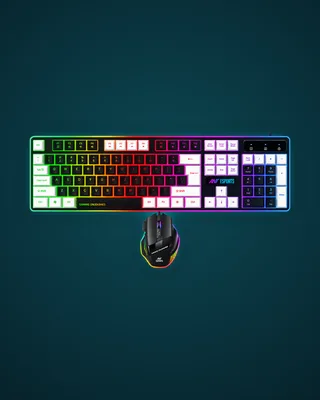
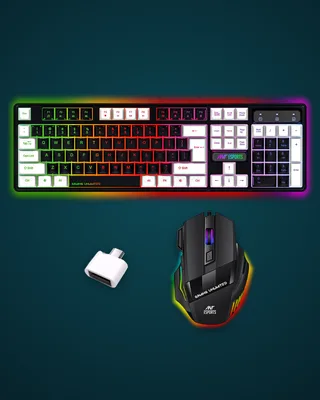
KM1410: new first photo from Ant Esports' packshot, four brand infographics
The old first image, from antesports.com, is a generated render with wrong keycaps and "GAMING UNLEASHED"
on the spacebar. The new one places Ant Esports' own Flipkart packshot (keyboard, mouse, OTG adapter) on
the teal stage with its RGB glow kept. The gallery adds Ant Esports' infographics for the USB connection,
mouse buttons, compatibility and rated life, and the specs gain the rated-life row.

Claude-Session: https://claude.ai/code/session_01Ro9QpjYW3rXQemVYygsFQx

diff --git a/apps/storefront/src/lib/catalog/gadget-additions.ts b/apps/storefront/src/lib/catalog/gadget-additions.ts
@@ -351,6 +351,7 @@ export const COMPUTER: readonly GadgetEntry[] = [
       { label: 'Media keys', value: 'FN + F1–F12: music, volume, mail, browser, calculator, lock' },
       { label: 'Mouse', value: '1200, 1800, 2400, 3600 DPI, 7 buttons, multicolour LED' },
       { label: 'Cables', value: 'USB, 1.5 m on both' },
+      { label: 'Rated life', value: 'Keys 10 million presses, mouse buttons 5 million clicks' },
       { label: 'Works with', value: 'Windows, macOS, Linux' },
       { label: 'Warranty', value: ANT_YEAR },
     ],
@@ -358,7 +359,17 @@ export const COMPUTER: readonly GadgetEntry[] = [
     optionKind: 'colour',
     options: [{ slug: 'carbon-black', name: 'Carbon Black', hex: '#1c1c1e' }],
     warrantyMonths: 12,
-    photos: { id: 'ant-esports-km1410', gallery: ['Keyboard and mouse', 'Sealed box'] },
+    photos: {
+      id: 'ant-esports-km1410',
+      gallery: [
+        'Keyboard, mouse and Type-C adapter',
+        'Sealed box',
+        'Wired USB, with a Type-C adapter',
+        'Mouse buttons',
+        'Works with Windows, macOS and Linux',
+        'Rated for 10 million key presses and 5 million clicks',
+      ],
+    },
   },
   {
     id: 'honeywell-usb-hub-4',

diff --git a/catalog-sources/batch-2026-11-17/tools/glow_teal.py b/catalog-sources/batch-2026-11-17/tools/glow_teal.py
@@ -1,0 +1,105 @@
+"""Brand packshot on white, with RGB glow, -> pieces on the plain teal backdrop, glow kept.
+
+The glow around a backlit keyboard or mouse is light on white paper, so a matte would either drop it or keep it as an opaque
+pale halo. Instead each piece is split in two:
+  - the body: dark outline found by threshold, holes filled, so white keycaps inside it stay opaque;
+  - everything else: colour-to-alpha against white (GIMP's method), which turns the glow into coloured light that shows on
+    the dark teal the way it does in the room.
+Pieces with no dark outline (the white OTG adapter) use the isnet matte instead.
+
+usage: python3 -I glow_teal.py SCRATCH src.jpg out.png LAYOUT.json
+LAYOUT.json: {"size": 2048, "pieces": [{"box": [x0, y0, x1, y1], "mode": "glow" | "isnet", "at": [cx, cy], "width": px}]}
+"""
+import json
+import sys
+
+import numpy as np
+from PIL import Image, ImageFilter
+from scipy import ndimage
+
+S, src, out, layout_path = sys.argv[1:5]
+layout = json.load(open(layout_path))
+N = layout['size']
+img = np.asarray(Image.open(src).convert('RGB')).astype(np.float64) / 255.0
+
+
+def backdrop(n):
+    yy, xx = np.mgrid[0:n, 0:n].astype(np.float64)
+    r = np.sqrt(((xx - n / 2) / n) ** 2 + ((yy - n * 0.45) / n) ** 2)
+    c0, c1 = np.array([14, 74, 86]), np.array([6, 30, 38])
+    t = np.clip(r / 0.75, 0, 1)[..., None]
+    return c0 * (1 - t) + c1 * t
+
+
+def color_to_alpha(rgb):
+    a = np.clip((1.0 - rgb).max(axis=2), 0, 1)
+    a = np.clip((a - 0.025) / 0.975, 0, 1)  # JPEG noise on the white
+    safe = np.maximum(a, 1e-6)[..., None]
+    col = np.clip((rgb - (1.0 - safe)) / safe, 0, 1)
+    return col, a
+
+
+def body_mask(rgb):
+    dark = rgb.max(axis=2) < 0.30
+    lab, n = ndimage.label(dark)
+    if n == 0:
+        return np.zeros(dark.shape)
+    sizes = ndimage.sum(dark, lab, range(1, n + 1))
+    keep = lab == (1 + int(np.argmax(sizes)))
+    keep = ndimage.binary_closing(keep, iterations=3)
+    filled = ndimage.binary_fill_holes(keep)
+    soft = ndimage.gaussian_filter(filled.astype(np.float64), 0.8)
+    return soft
+
+
+def isnet_mask(rgb):
+    import onnxruntime as ort
+    sess = ort.InferenceSession(S + '/models/isnet-general-use.onnx', providers=['CPUExecutionProvider'])
+    im = Image.fromarray((rgb * 255).astype(np.uint8))
+    x = np.asarray(im.resize((1024, 1024), Image.BILINEAR)).astype(np.float32) / 255.0
+    x = (x - 0.5).transpose(2, 0, 1)[None].astype(np.float32)
+    p = sess.run(None, {sess.get_inputs()[0].name: x})[0][0, 0]
+    p = (p - p.min()) / (p.max() - p.min() + 1e-8)
+    m = np.asarray(Image.fromarray((p * 255).astype(np.uint8)).resize(im.size, Image.BILINEAR)).astype(np.float64) / 255
+    return np.clip((m - 0.15) / 0.7, 0, 1)
+
+
+def piece(box, mode):
+    x0, y0, x1, y1 = box
+    rgb = img[y0:y1, x0:x1]
+    if mode == 'isnet':
+        return rgb, isnet_mask(rgb)
+    col, a = color_to_alpha(rgb)
+    b = body_mask(rgb)
+    alpha = np.maximum(a, b)
+    colour = b[..., None] * rgb + (1 - b[..., None]) * col
+    return colour, alpha
+
+
+canvas = backdrop(N) / 255.0
+shadow = np.zeros((N, N))
+layers = []
+for p in layout['pieces']:
+    rgb, a = piece(p['box'], p['mode'])
+    h, w = a.shape
+    s = p['width'] / w
+    W, H = int(round(w * s)), int(round(h * s))
+    rgb_im = Image.fromarray((rgb * 255).astype(np.uint8)).resize((W, H), Image.LANCZOS)
+    a_im = Image.fromarray((a * 255).astype(np.uint8)).resize((W, H), Image.LANCZOS)
+    cx, cy = p['at']
+    X, Y = int(cx - W / 2), int(cy - H / 2)
+    layers.append((np.asarray(rgb_im) / 255.0, np.asarray(a_im) / 255.0, X, Y))
+    # contact shadow under solid parts only, nudged down
+    solid = (np.asarray(a_im) / 255.0 > 0.9).astype(np.float64)
+    sy = Y + int(H * 0.04)
+    shadow[sy:sy + H, X:X + W] = np.maximum(shadow[sy:sy + H, X:X + W], solid[: max(0, min(H, N - sy))])
+
+shadow = np.asarray(Image.fromarray((shadow * 255).astype(np.uint8)).filter(ImageFilter.GaussianBlur(N / 90))) / 255.0
+canvas = canvas * (1 - 0.45 * shadow[..., None])
+for rgb, a, X, Y in layers:
+    h, w = a.shape
+    region = canvas[Y:Y + h, X:X + w]
+    region[:] = region * (1 - a[..., None]) + rgb * a[..., None]
+
+Image.fromarray((np.clip(canvas, 0, 1) * 255).astype(np.uint8)).save(out, compress_level=6)
+print('ok', out)

diff --git a/catalog-sources/batch-2026-11-17/README.md b/catalog-sources/batch-2026-11-17/README.md
@@ -90,3 +90,22 @@ The hero's fourth slide ("The desk edit", Computer accessories) and the laptop i
 from the owner's three-quarter creative (02 - Final Creatives/Laptops/Dell Latitude 5400/01-hero-three-quarter.png), lifted off its
 backdrop: `apps/storefront/public/home/laptop-latitude-{520,1034}.webp`. It opens the computer accessories page until the laptops
 are listed.
+
+## KM1410 photos replaced (18 Nov)
+
+- **The old first image was wrong.** It came from antesports.com, the only photo on Ant Esports' KM1410 page. It is a
+  generated render with wrong keycaps ("Fnter", "F7 F7", "( 9 ) 9") and "GAMING UNLEASHED" on the spacebar; the product and
+  its box say "GAMING UNLIMITED".
+- **New first image:** `teal/ant-km1410__0-hero.webp`.
+  - Built from Ant Esports' own packshot on its Flipkart listing (keyboard, mouse and OTG adapter on white; the keycaps are
+    correct), using `tools/glow_teal.py`.
+  - The bodies are matted. The RGB glow is turned into coloured light with colour-to-alpha, so it shows on the teal.
+  - The pieces keep the packshot's scale, with the mouse and adapter about 10% larger.
+- **Gallery 3–6:** Ant Esports' infographics from the same listing, unchanged:
+  - USB wired connection;
+  - 7D durable buttons;
+  - universal compatibility;
+  - silent and long-lasting clicks (10 million keystrokes, 5 million clicks).
+
+  Their text is clean and matches the box and specs.
+- **New spec row:** "Rated life" comes from the last infographic.
